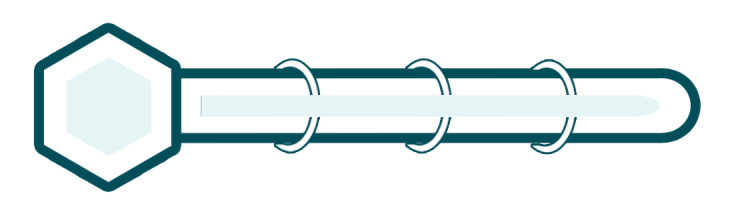
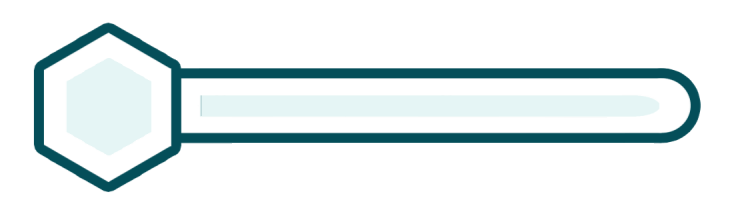
added level settings on constructor for gauge ring count and max score

diff --git a/src/scenes/level.ts b/src/scenes/level.ts
@@ -67,15 +67,19 @@ export class Level extends entity.CompositeEntity {
   private gauge: PIXI.Container;
   private gaugeText: PIXI.Text;
   private gaugeBar: PIXI.Sprite;
+  private gaugeRings: PIXI.Container;
   private gaugeBackground: PIXI.Sprite;
-  private gaugeForeground: PIXI.Sprite;
   private bonusBackground: PIXI.Sprite;
   private gaugeBarBaseWidth: number;
   private gaugeTriggered = false;
-  private maxScore = 1000;
-  private score = 0;
 
-  constructor(public readonly levelVariant: LevelVariant) {
+  public score = 0;
+
+  constructor(
+    public readonly levelVariant: LevelVariant,
+    public readonly maxScore = 1000,
+    public readonly gaugeRingCount = 5
+  ) {
     super();
   }
 
@@ -193,27 +197,41 @@ export class Level extends entity.CompositeEntity {
       // Gauge bar (score/exp?)
       {
         this.gauge = new PIXI.Container();
+
         this.gaugeBackground = new PIXI.Sprite(
           this._entityConfig.app.loader.resources[
             "images/hud_gauge_background.png"
           ].texture
         );
+
         this.gaugeBar = new PIXI.Sprite(
           this._entityConfig.app.loader.resources[
             "images/hud_gauge_bar.png"
           ].texture
         );
-        this.gaugeForeground = new PIXI.Sprite(
-          this._entityConfig.app.loader.resources[
-            "images/hud_gauge_foreground.png"
-          ].texture
-        );
+
+        this.gaugeRings = new PIXI.Container()
+        this.gaugeRings.position.x = 200
+
+        for(let i=0; i<this.gaugeRingCount; i++){
+          const gaugeRing = new PIXI.Sprite(
+            this._entityConfig.app.loader.resources[
+              "images/hud_gauge_ring.png"
+              ].texture
+          )
+          gaugeRing.anchor.x = .5
+          gaugeRing.position.x = crisprUtil.proportion(
+            i, -1, this.gaugeRingCount, 0, 450, true
+          )
+          this.gaugeRings.addChild(gaugeRing)
+        }
+
         this.gaugeText = crisprUtil.makeText("", 0x000000, 40);
         this.gaugeText.position.set(110, 110);
 
         this.gauge.addChild(this.gaugeBackground);
         this.gauge.addChild(this.gaugeBar);
-        this.gauge.addChild(this.gaugeForeground);
+        this.gauge.addChild(this.gaugeRings);
         this.gauge.addChild(this.gaugeText);
 
         this.container.addChild(this.gauge);

diff --git a/src/game.ts b/src/game.ts
@@ -107,7 +107,7 @@ const graphicalAssets = [
   "images/hud_go_button.png",
   "images/hud_gauge_background.png",
   "images/hud_gauge_bar.png",
-  "images/hud_gauge_foreground.png",
+  "images/hud_gauge_ring.png",
   "images/nucleotide_glow.png",
   "images/nucleotide_bright.png",
 
